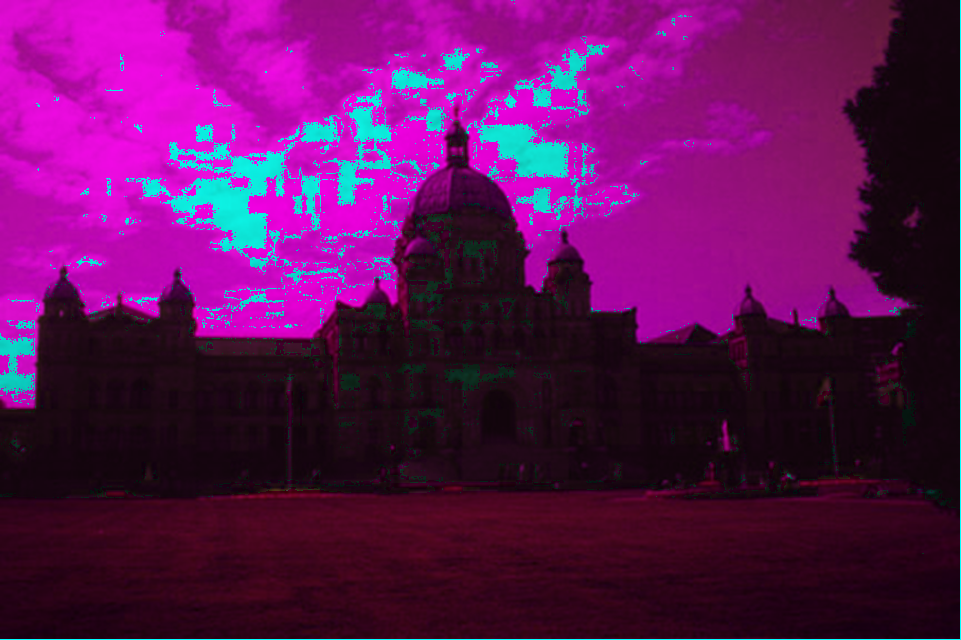
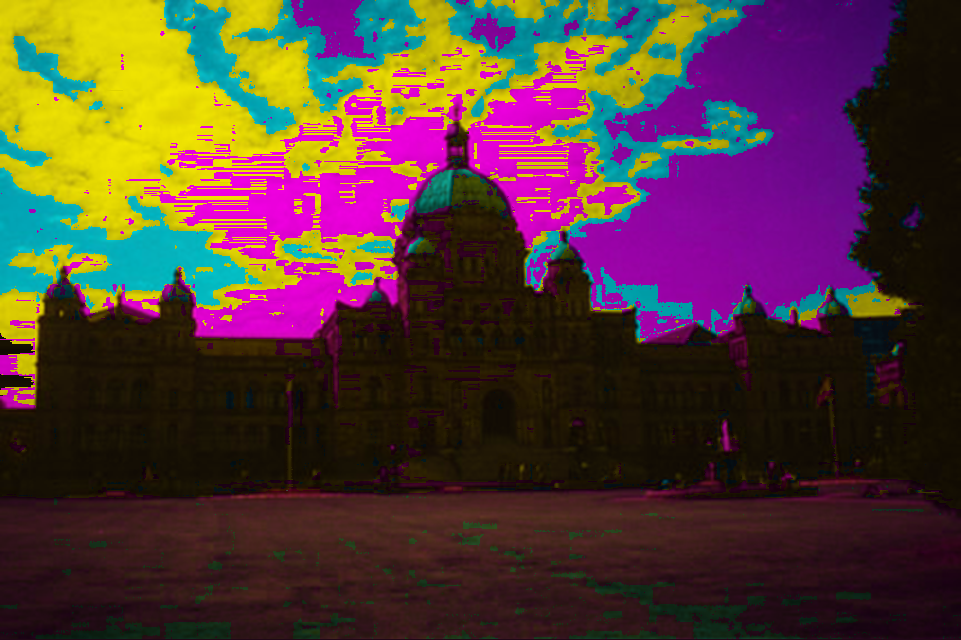
correction hue convertion

diff --git a/histoCPU.cpp b/histoCPU.cpp
@@ -9,6 +9,7 @@ float min(const float a, const float b, const float c){
     return std::min(std::min(a, b), c);
 } 
 
+
 void rgb2hsv(const Image * const img, unsigned char * hue, unsigned char * sat, unsigned char * val) {
     for (int y = 0; y < img->_height; y++) {
         for (int x = 0; x < img->_width; x++) {
@@ -46,7 +47,7 @@ void hsv2rgb(unsigned char * hue, unsigned char * sat, unsigned char * val, cons
     for (int y = 0; y < img->_height; y++) {
         for (int x = 0; x < img->_width; x++) { 
             const size_t i = x + img->_width * y; 
-            const float h = hue[i]/255.f;
+            const float h = hue[i]/255.f * 6.f;
             const float s = sat[i]/255.f;
             const float v = val[i]/255.f;  
             const float hDecimal = (h - (int)h);
